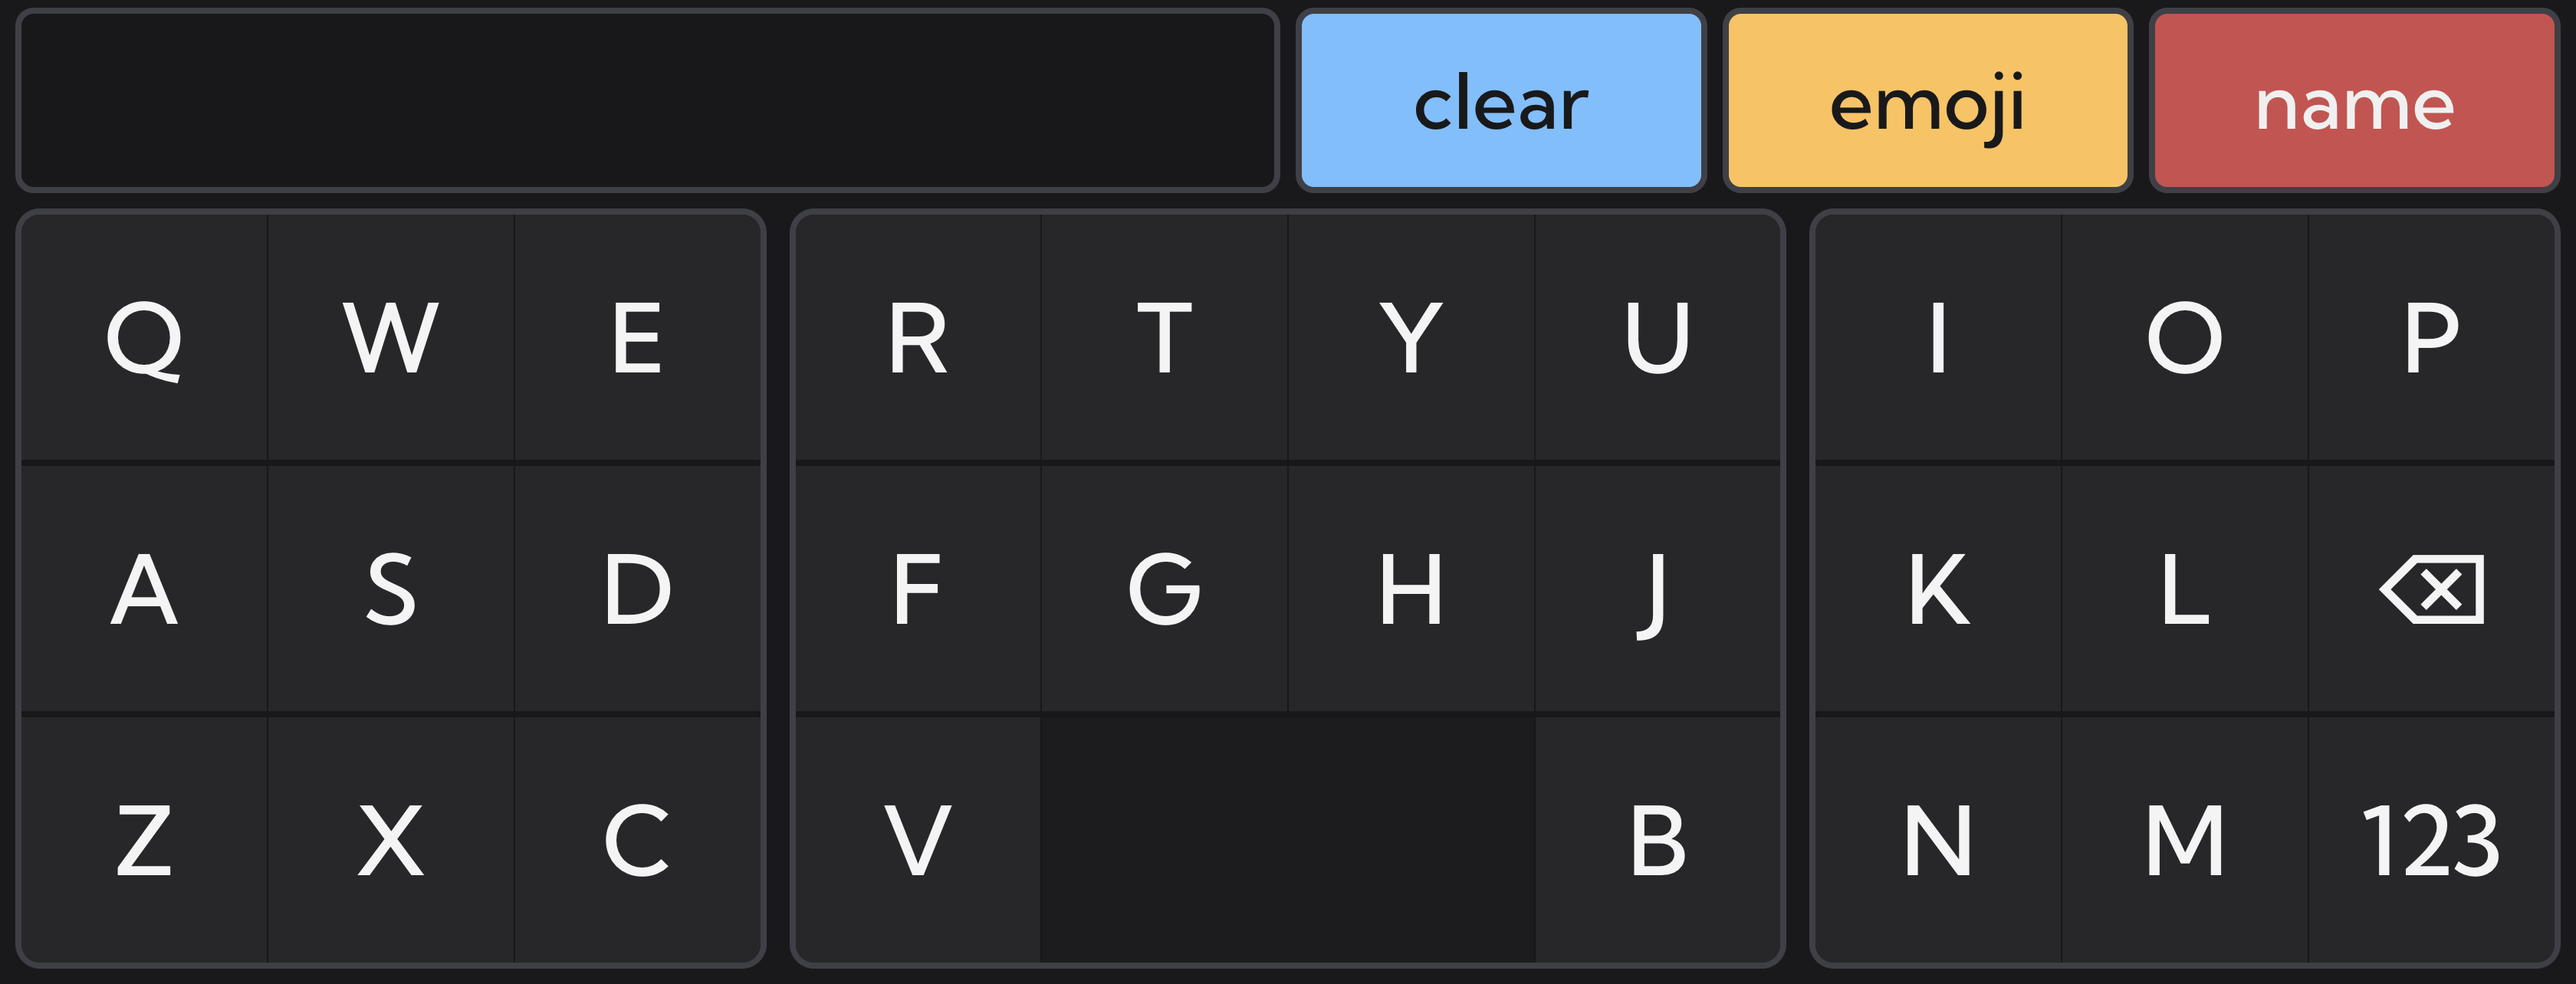
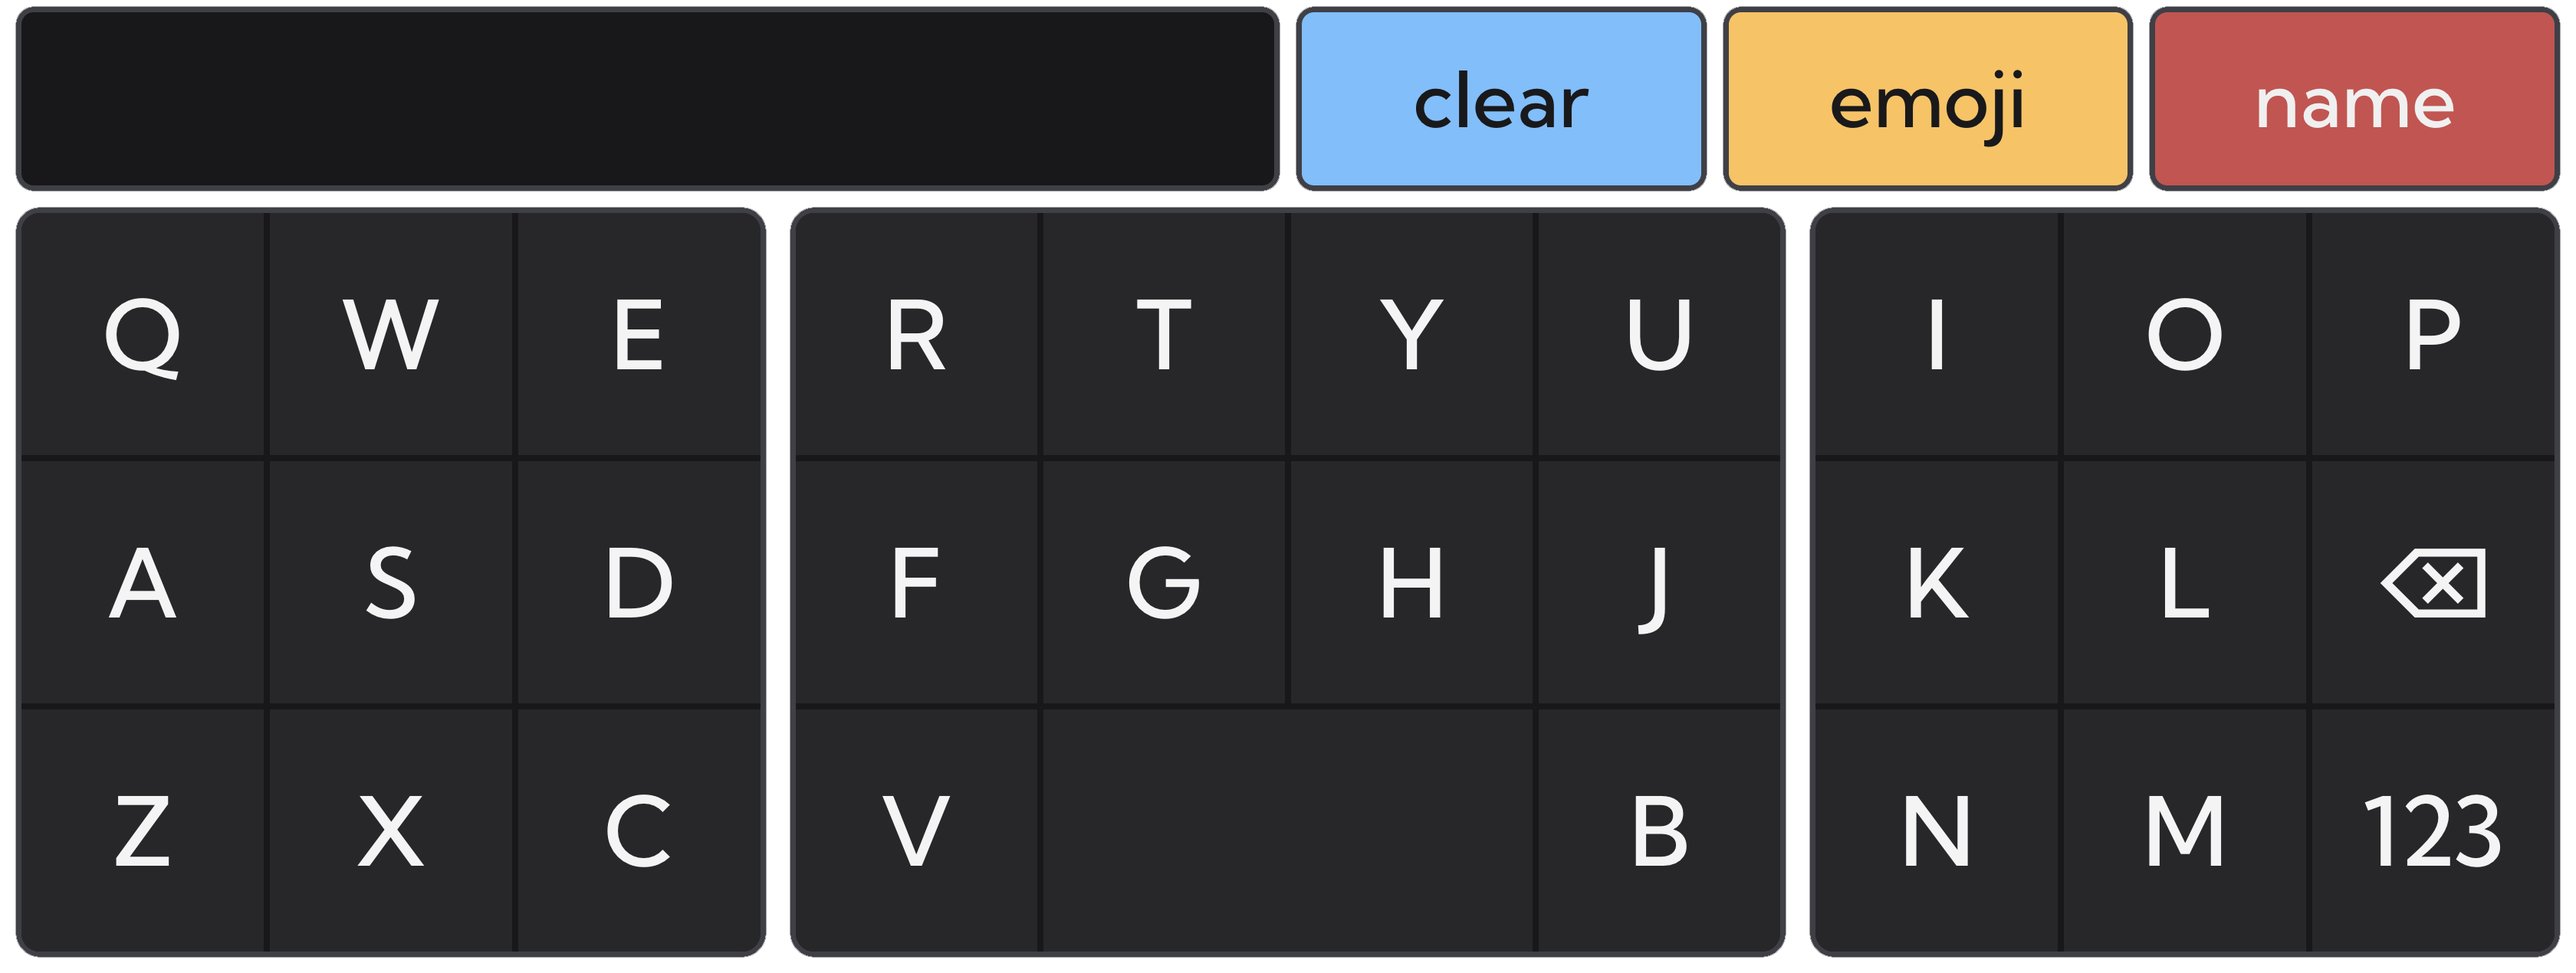
Calibration conditions screen, new dark, light mode images

diff --git a/eyeType/src/components/SelectionScreen.tsx b/eyeType/src/components/SelectionScreen.tsx
@@ -18,47 +18,72 @@ export default function SelectionScreen({setStudyMode}: Props) {
   return (
     <div>
       
-        {step === 1 && (
+        {step === 3 ? (<>
+        <h1 className='main-text' style={{textAlign: "center", color: "#ffffff", fontSize: "2em", marginBottom: "40px"}}>
+            Calibration
+        </h1>
+
+                  <p className="main-text" style={{textAlign: "center", color: "#cccccc", fontSize: "1.5em", lineHeight: "1.5", width: "80%", margin: "auto", marginBottom: "30px"}}>
+            Before beginning calibration, please ensure the following conditions are met: 
+            <ul style={{textAlign: "left"}}>
+                <li>The laptop is placed on a sturdy table and is not moving</li>
+                <li>There is adequate lighting and the face is centered within the box</li>
+                <li>There is no movement in the background</li>
+            </ul>
+            To ensure eye tracking accuracy, throughout calibration and while using the app, do not move your head or body. If excessive movement makes it difficult to use the app, you will need to recalibrate. 
+        </p>
+
+
+        <button className="selection-button" style={{width: '50%', margin: "auto"}} onClick={() => setStudyMode(temp)}>
+          <h3 style={{textAlign: "center", fontSize: "2em", margin: 0}}>Proceed to Calibration</h3>
+        </button>
+
+</>) :
           <>
         <h1 className='main-text' style={{textAlign: "center", color: "#ffffff", fontSize: "2em", marginBottom: "40px"}}>
-            Select a study mode to begin:
+            {step === 1 ? "Select a study mode to begin:" : "Choose a theme preference:"}
         </h1>
         <div className="selection-buttons">
-            <button className="selection-button" onClick={() => {setStep(2);  setTemp("basic") }}>
-                <h3 className="home-title" style={{textAlign: "center", fontSize: "1.5em", margin: 0}}>EyeType Basic</h3>
-                <p style={{textAlign: "center", fontSize: "1em", margin: 0, marginTop: 20}}>Character-by-Character Typing</p>
+            <button className="selection-button" onClick={ () => {step === 1 ? [setStep(2),  setTemp("basic")] :  [document.body.classList.add('light-theme'), setStep(3)]}}>
+                
+                {step === 1 ?(
+                <>
+                  <h3 className="home-title" style={{textAlign: "center", fontSize: "1.5em", margin: 0}}>EyeType Basic</h3>
+                  <p style={{textAlign: "center", fontSize: "1em", margin: 0, marginTop: 20}}>The base version of EyeType which involves typing out words character by character using eye gaze. This version excludes any predictive or AI functionality. Select a character group to zoom in, then select a character to type a letter to form words. To read a typed sentence aloud, click the speak button.</p>
+                </>
+                ):(
+                <>
+                <h3 className="main-text" style={{textAlign: "center", fontSize: "1.5em", margin: 0, marginBottom: "20px", color:"#f0f0f0"}}>Light Keyboard Theme</h3>
+     
+                <img style={{width: "100%", height: "100%", borderRadius: "2px"}} src={lightThemeImg} alt="Light Theme" />
+                </>)}
+
+
+
             </button>
-            <button className="selection-button" onClick={() => {setStep(2); setTemp("pro") }}>
+            <button className="selection-button" onClick={() => {step === 1 ? [setStep(2), setTemp("pro")] :  [document.body.classList.remove('light-theme'), setStep(3)]}}>
+
+            {step === 1 ?(
+              <>
                 <h3 className="home-title" style={{textAlign: "center", fontSize: "1.5em", margin: 0}}>EyeType Pro</h3>
-                <p style={{textAlign: "center", fontSize: "1em", margin: 0, marginTop: 20}}>AI Abbreviation Expansion</p>
+                <p style={{textAlign: "center", fontSize: "1em", margin: 0, marginTop: 20}}>This version of EyeType includes AI powered abbreviation expansion. Instead of typing whole words, type the first letter of each word in a phrase and the AI will suggest the full phrase. Click the speak button to read the typed sentence aloud or select the sentence itself to edit it.  </p>
+              </>
+            ) : (
+
+                            <>
+                <h3 className="main-text" style={{textAlign: "center", fontSize: "1.5em", margin: 0, marginBottom: "20px", color:"#f0f0f0"}}>Dark Keyboard Theme</h3>
+                <img style={{width: "100%", height: "100%", borderRadius: "2px"}} src={darkThemeImg} alt="Dark Theme" />
+              </>
+            )}
+            
             </button>
         </div>
-        </>
 
-      )}
-      {step === 2 && (
-        <>
-        <h1 className='main-text' style={{textAlign: "center", color: "#ffffff", fontSize: "2em", marginBottom: "40px", marginTop: "40px"}}>
-            Choose a theme preference:
-        </h1>
-        <div className="selection-buttons">
-            <button className="selection-button" onClick={() => {
-                document.body.classList.add('light-theme');
-                setStudyMode(temp);
-            }}>
-                <h3 className="main-text" style={{textAlign: "center", fontSize: "1.5em", margin: 0, marginBottom: "20px", color:"#f0f0f0"}}>Light Theme</h3>
-                <img style={{width: "100%", height: "100%", borderRadius: "2px"}} src={lightThemeImg} alt="Light Theme" />
-            </button>
-            <button className="selection-button" onClick={() => {
-                document.body.classList.remove('light-theme');
-                setStudyMode(temp);
-            }}>
-                <h3 className="main-text" style={{textAlign: "center", fontSize: "1.5em", margin: 0, marginBottom: "20px", color:"#f0f0f0"}}>Dark Theme</h3>
-                <img style={{width: "100%", height: "100%", borderRadius: "2px"}} src={darkThemeImg} alt="Dark Theme" />
-            </button>
-        </div>  
-        </>  
-      )}    
+
+        </> 
+      }
+      
+ 
     </div>
   )
 }

diff --git a/eyeType/src/styles/index.css b/eyeType/src/styles/index.css
@@ -679,7 +679,7 @@ body.light-theme .top-bar-button {
   border-color: #ccc;
 }
 
-body.light-theme .selection-button {
+/* body.light-theme .selection-button {
   background-color: #f0f0f0;
   border-color: #ccc;
   color: #435058;
@@ -687,4 +687,4 @@ body.light-theme .selection-button {
 
 body.light-theme .selection-button:hover {
   background-color: #e0e0e0;
-}
+} */
